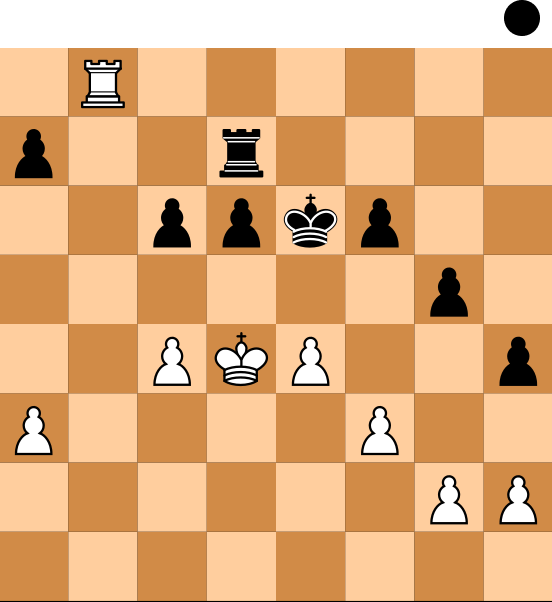
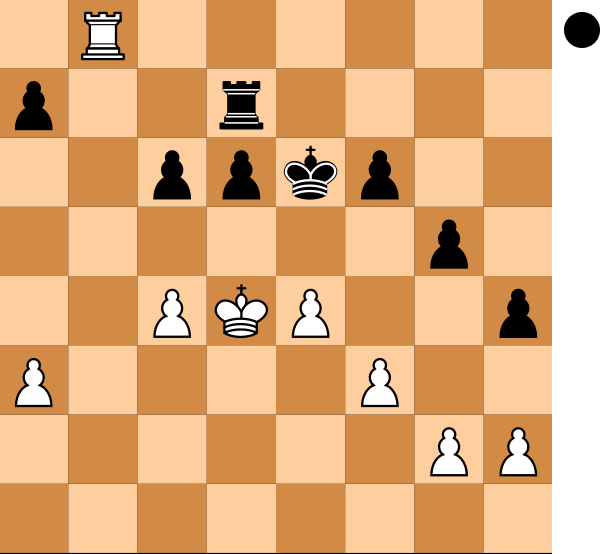
fix: notation position

diff --git a/app/common/utils/image_tool.py b/app/common/utils/image_tool.py
@@ -19,13 +19,13 @@ class ImageTool:
         img_width, img_height = image.size
         turn_width, turn_height = turn_image.size
 
-        new_width = img_width
-        new_height = img_height + turn_width + 12
+        new_width = img_width + turn_width + 12
+        new_height = img_height
 
         new_image = Image.new("RGBA", (new_width, new_height), (255, 255, 255, 0))
 
-        new_image.paste(image, (0, turn_height + 12))
-        new_image.paste(turn_image, (img_width - 12 - turn_width, 0))
+        new_image.paste(image, (0, 0))
+        new_image.paste(turn_image, (img_width + 12, 12))
 
         new_image.save(image_path)
 
